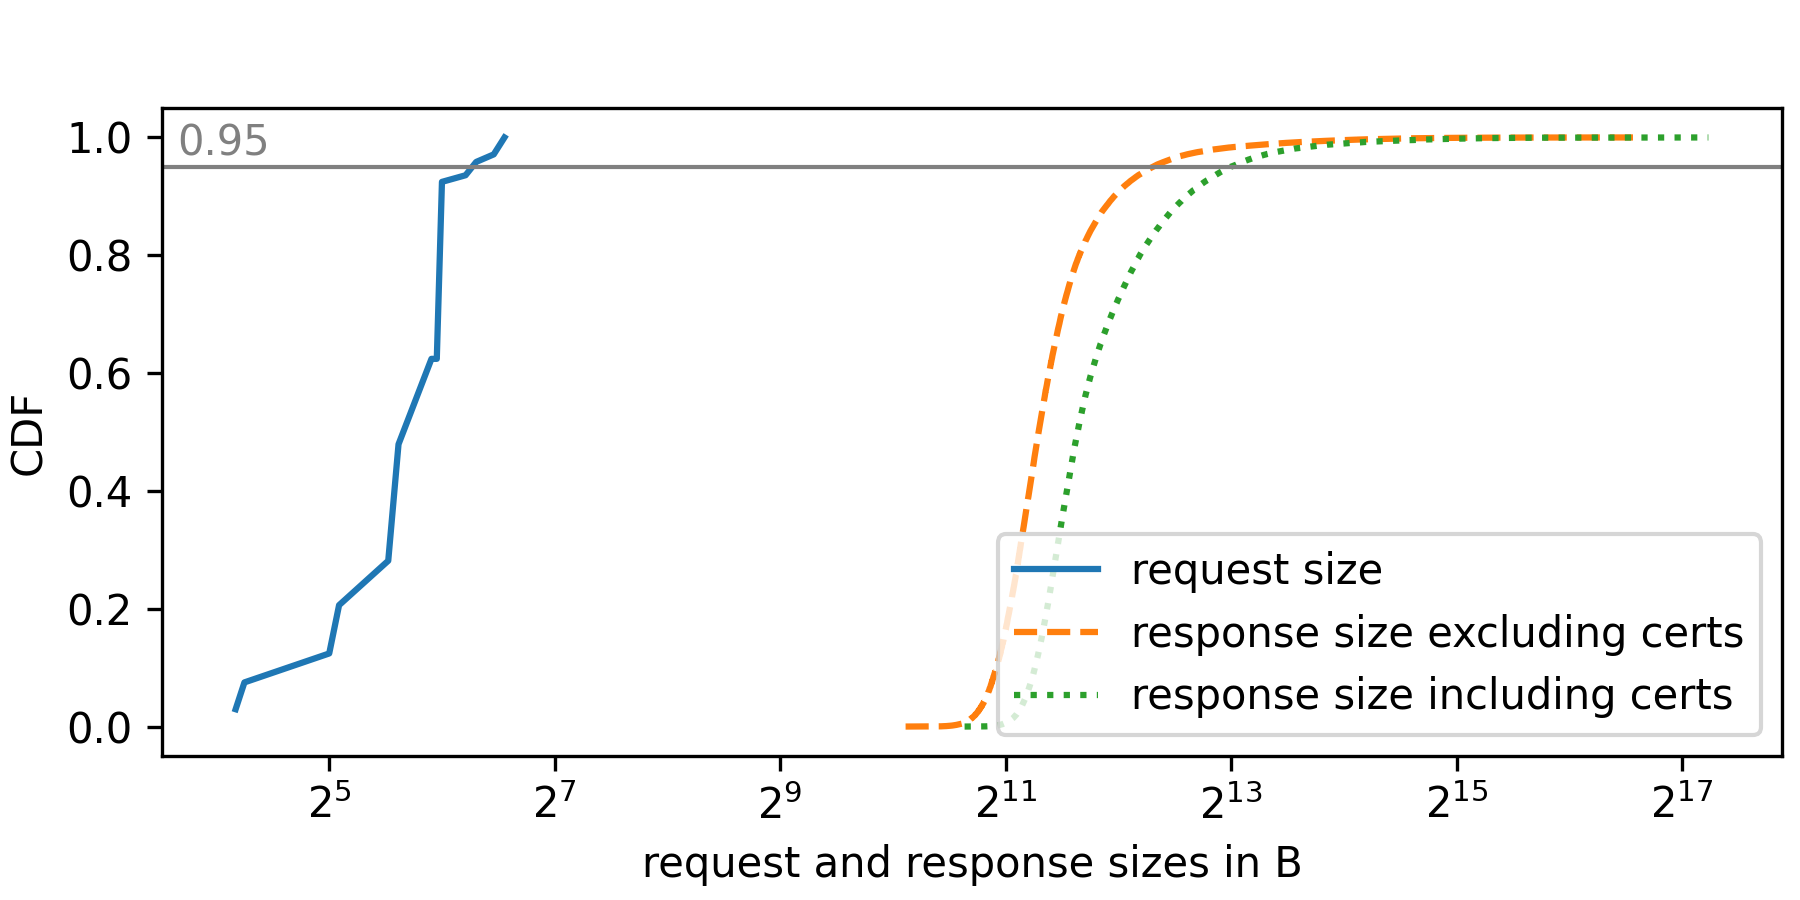
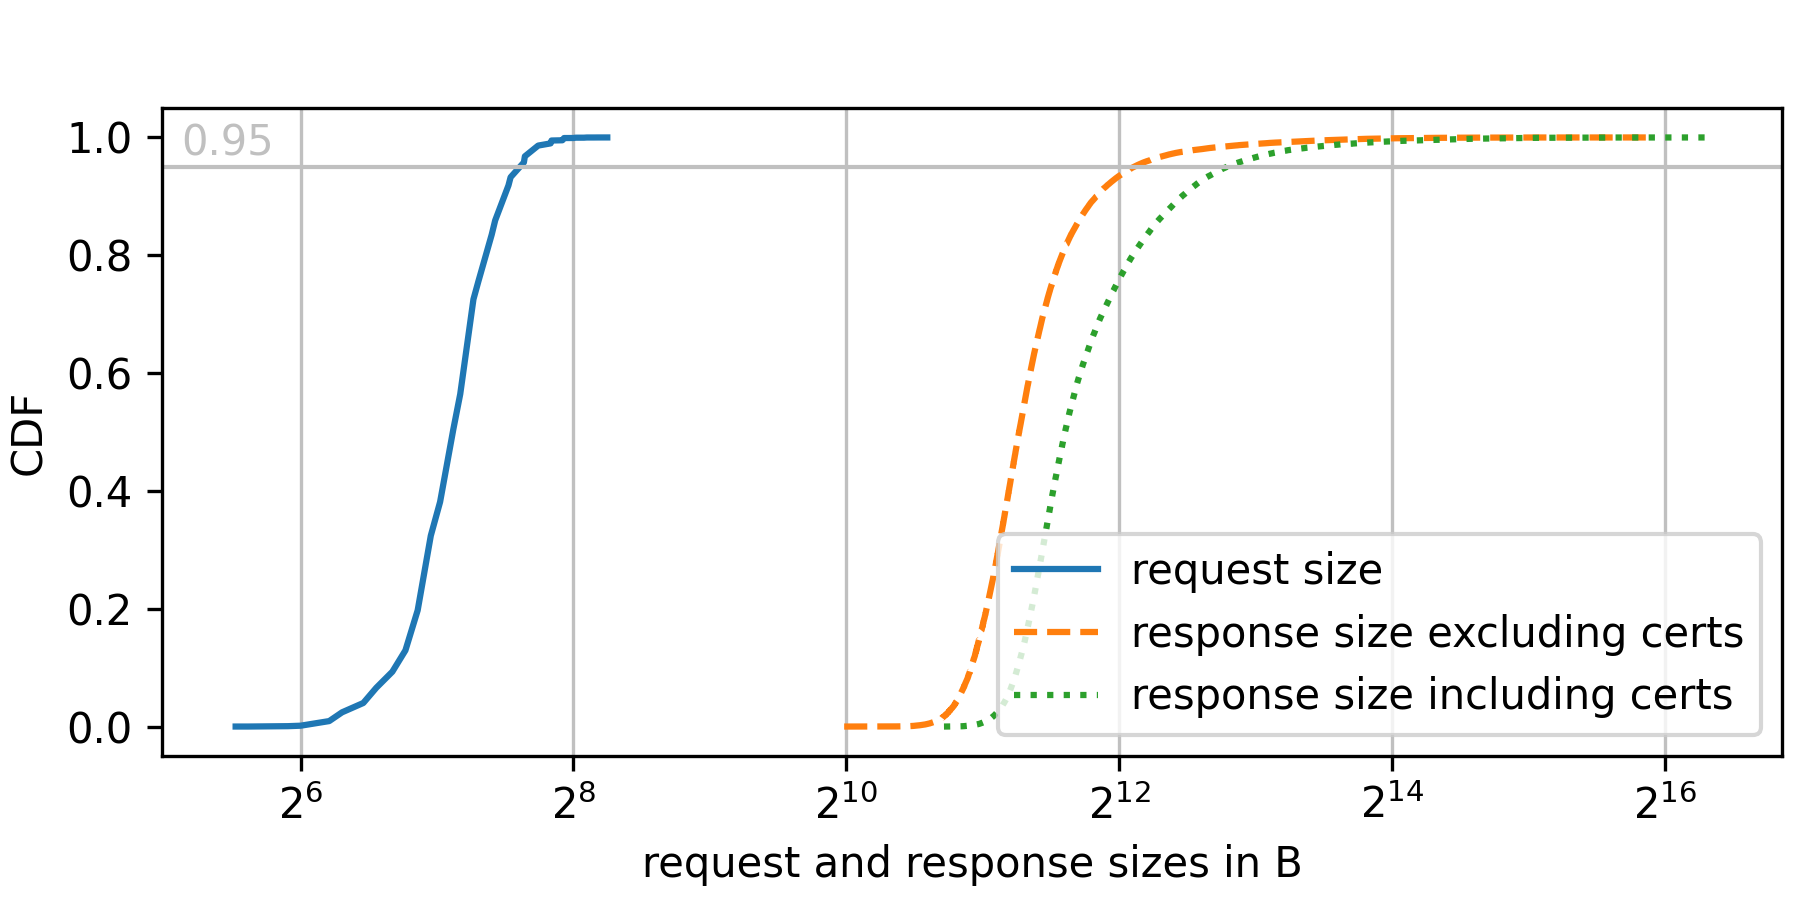
update plots

diff --git a/database/measurements/plot.py b/database/measurements/plot.py
@@ -1,12 +1,16 @@
 import os
 
 import pandas as pd
+import seaborn as sns
 import matplotlib.pyplot as plt
+from matplotlib.ticker import MaxNLocator
+from matplotlib.colors import LogNorm
 
 FILE_PATH = os.path.realpath(__file__)
 CURRENT_DIR = os.path.dirname(FILE_PATH)
 
-fig, ax = plt.subplots(dpi=300)
+fig, ax = plt.subplots(figsize=(6, 3), dpi=300)
+fig.subplots_adjust(bottom=0.16, left=0.09, right=0.99)
 ax.set_xscale("log", base=2)
 ax.set_xlabel("number of parallel processes")
 ax.set_yscale("linear")
@@ -62,3 +66,133 @@ for file in files:
 # plt.grid()
 plt.legend(loc="upper left")
 plt.savefig(f"{CURRENT_DIR}/plot.png")
+plt.close()
+
+fig, ax = plt.subplots(figsize=(6, 3), dpi=300)
+fig.subplots_adjust(bottom=0.16, left=0.09, right=0.99)
+ax.set_xlabel("SMT depth")
+ax.set_yscale("linear")
+ax.set_ylabel("CDF")
+
+df = pd.read_csv(os.path.join(CURRENT_DIR, "depth.csv"))
+df['smt_depth'] = df['smt_depth_xy'] + df['smt_depth_z']
+
+df.sort_values(
+    by=['smt_depth'],
+    ascending=False,
+    inplace=True
+)
+
+
+def cdf(column):
+    # https://stackoverflow.com/a/54317197
+    s = pd.Series(column.values, name='value')
+
+    stats_df = pd.DataFrame(s).groupby('value')['value'] \
+        .agg('count') \
+        .pipe(pd.DataFrame) \
+        .rename(columns={'value': 'frequency'})
+
+    # PDF
+    stats_df['pdf'] = stats_df['frequency'] / sum(stats_df['frequency'])
+
+    # CDF
+    stats_df['cdf'] = stats_df['pdf'].cumsum()
+    stats_df = stats_df.reset_index()
+    cdf = stats_df['cdf'].values
+
+    p = plt.plot(
+        stats_df['value'],
+        stats_df['cdf'],
+    )
+    color = p[0].get_color()
+
+    ninety_five_row = stats_df[stats_df['cdf'] >= 0.95].iloc[0]
+    ninety_five_p = ninety_five_row['cdf']
+    ninety_five = ninety_five_row['value']
+
+    plt.scatter(
+        [ninety_five],
+        [ninety_five_p],
+        marker="o",
+        facecolors='none',
+        edgecolors=color
+    )
+
+    plt.text(
+        ninety_five * 0.98,
+        0.85,
+        # f'({ninety_five}, {ninety_five_p.round(2)})',
+        f'{int(ninety_five) if ninety_five.is_integer() else ninety_five.round(4)}',
+        rotation=0,
+        color=color
+    )
+
+
+cdf(df['smt_depth'])
+plt.savefig(f"{CURRENT_DIR}/depth.png")
+plt.close()
+
+# cdf(df['smt_depth_xy'])
+# cdf(df['smt_depth_z'])
+
+df = pd.read_csv(os.path.join(CURRENT_DIR, "leaves.csv"))
+df = df.groupby(
+    by=['smt_depth_xy', 'smt_depth_z']
+).agg(
+    count=('smt_depth_xy', 'count')
+).sort_values(
+    by=['count'],
+    ascending=False
+)
+
+for xy_depth in range(52):
+    for z_depth in range(16):
+        if not (xy_depth, z_depth) in df.index:
+            df.loc[(xy_depth, z_depth), 'count'] = 0
+
+df = df.reset_index()
+
+fig, ax = plt.subplots(figsize=(6, 3), dpi=300)
+fig.subplots_adjust(bottom=0.16, left=0.09, right=1.05)
+
+ax.set_xlabel("surface tree depth")
+
+ax.set_ylabel("altitude subtree depth")
+
+pivoted_data = df.pivot_table(
+    index='smt_depth_z',
+    columns='smt_depth_xy',
+    values='count',
+    fill_value=0
+)
+
+# print(pivoted_data)
+# exit()
+
+ax = sns.heatmap(
+    pivoted_data,
+    ax=ax,
+    norm=LogNorm(),
+    cmap="viridis"
+)
+
+# ax.set_ylim(bottom=0, top=15)
+# ax.set_xlim(left=0, right=51)
+
+xy_depth_ticks = [0, 5, 10, 15, 20, 25, 30, 35, 40, 45, 51]
+plt.xticks(xy_depth_ticks, xy_depth_ticks, rotation=0)
+
+z_depth_ticks = [0, 3, 6, 9, 12, 15]
+plt.yticks()
+plt.yticks(z_depth_ticks, z_depth_ticks, rotation=0)
+
+ax.invert_yaxis()
+
+for _, spine in ax.spines.items():
+    spine.set_visible(True)
+    spine.set_linewidth(1)
+
+
+plt.savefig(f"{CURRENT_DIR}/leaves.png")
+plt.close()

diff --git a/performance/client/client-performance-plot.py b/performance/client/client-performance-plot.py
@@ -166,9 +166,9 @@ def cdf_plot(
                 0.97,
                 f'0.95',
                 rotation=0,
-                color='gray'
+                color='silver'
             )
-            plt.hlines(0.95, left, right, 'gray', linewidth=1)
+            plt.hlines(0.95, left, right, 'silver', linewidth=1)
 
         if isinstance(legend, str):
             plt.legend(loc=legend)
@@ -297,6 +297,8 @@ def main(
         show_quantile=False,
     )
 
+    ax.grid(axis='x', color='silver')
+
     # response_size
     cdf_plot(
         "response size in B",
@@ -413,6 +415,8 @@ def main(
     #     df_including_certificates['time_consistency'],
     #     f"{output_path}/time-consistency-cdf.png",
     # )
+
+    ax.grid(axis='x', color='silver')
 
     # time_total
     cdf_plot(
